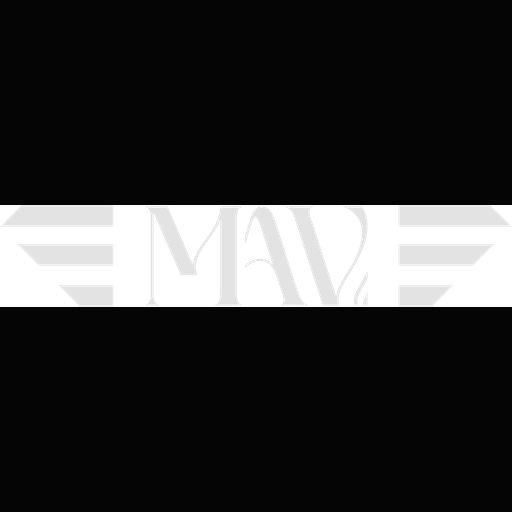
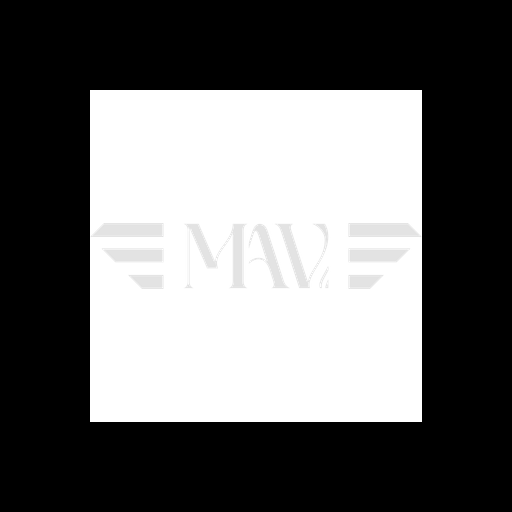
style: ajustar padding y fondo negro al icono de la app

diff --git a/resize.js b/resize.js
@@ -1,15 +1,31 @@
 const sharp = require('sharp');
 
 async function resizeIcons() {
+  // Para 192x192: Logo al ~65% (124px) y centrado en fondo negro
   await sharp('public/logo-icon-light.png')
-    .resize(192, 192, { fit: 'contain', background: { r: 5, g: 5, b: 5, alpha: 1 } })
+    .resize(124, 124, { fit: 'contain', background: { r: 0, g: 0, b: 0, alpha: 0 } })
+    .extend({
+      top: 34,
+      bottom: 34,
+      left: 34,
+      right: 34,
+      background: { r: 0, g: 0, b: 0, alpha: 1 }
+    })
     .toFile('public/icon-192.png');
     
+  // Para 512x512: Logo al ~65% (332px) y centrado en fondo negro
   await sharp('public/logo-icon-light.png')
-    .resize(512, 512, { fit: 'contain', background: { r: 5, g: 5, b: 5, alpha: 1 } })
+    .resize(332, 332, { fit: 'contain', background: { r: 0, g: 0, b: 0, alpha: 0 } })
+    .extend({
+      top: 90,
+      bottom: 90,
+      left: 90,
+      right: 90,
+      background: { r: 0, g: 0, b: 0, alpha: 1 }
+    })
     .toFile('public/icon-512.png');
     
-  console.log("Icons resized successfully.");
+  console.log("Icons padded and resized successfully.");
 }
 
 resizeIcons().catch(console.error);
